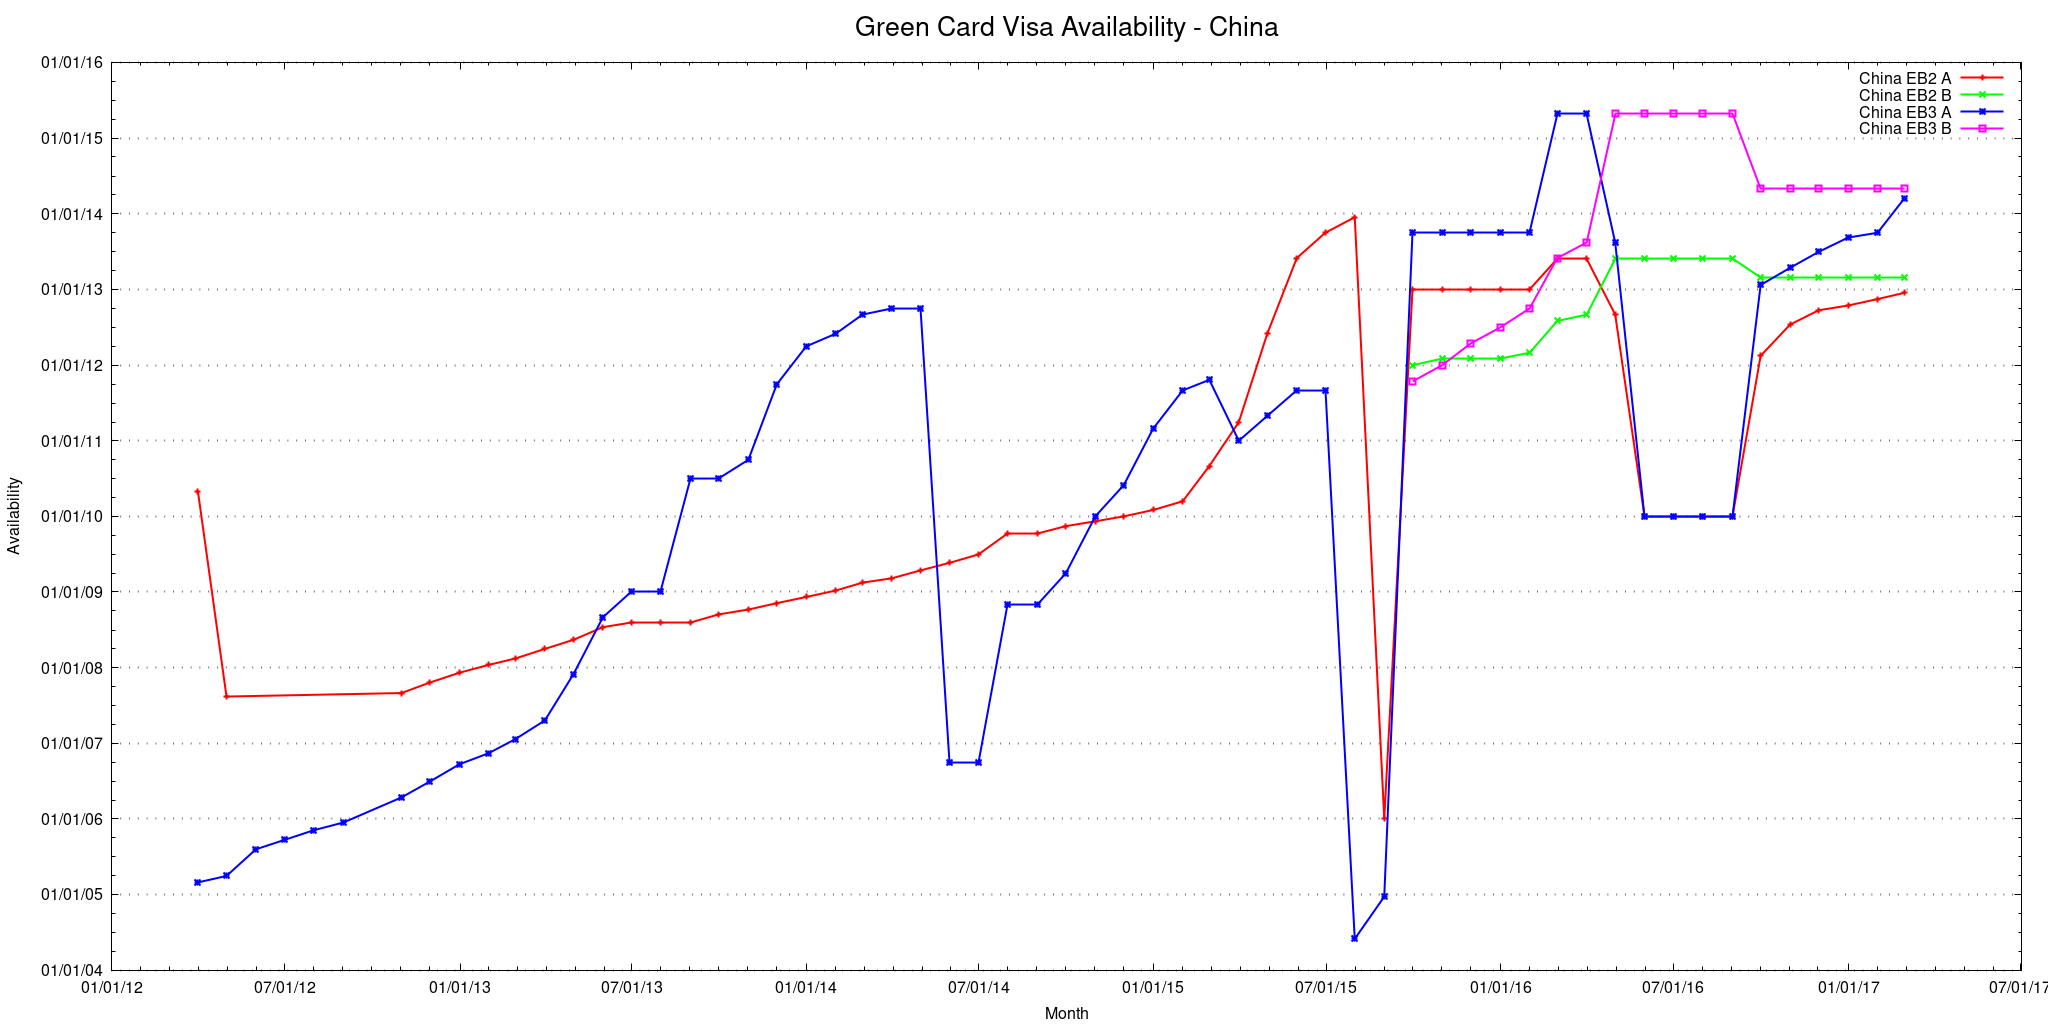
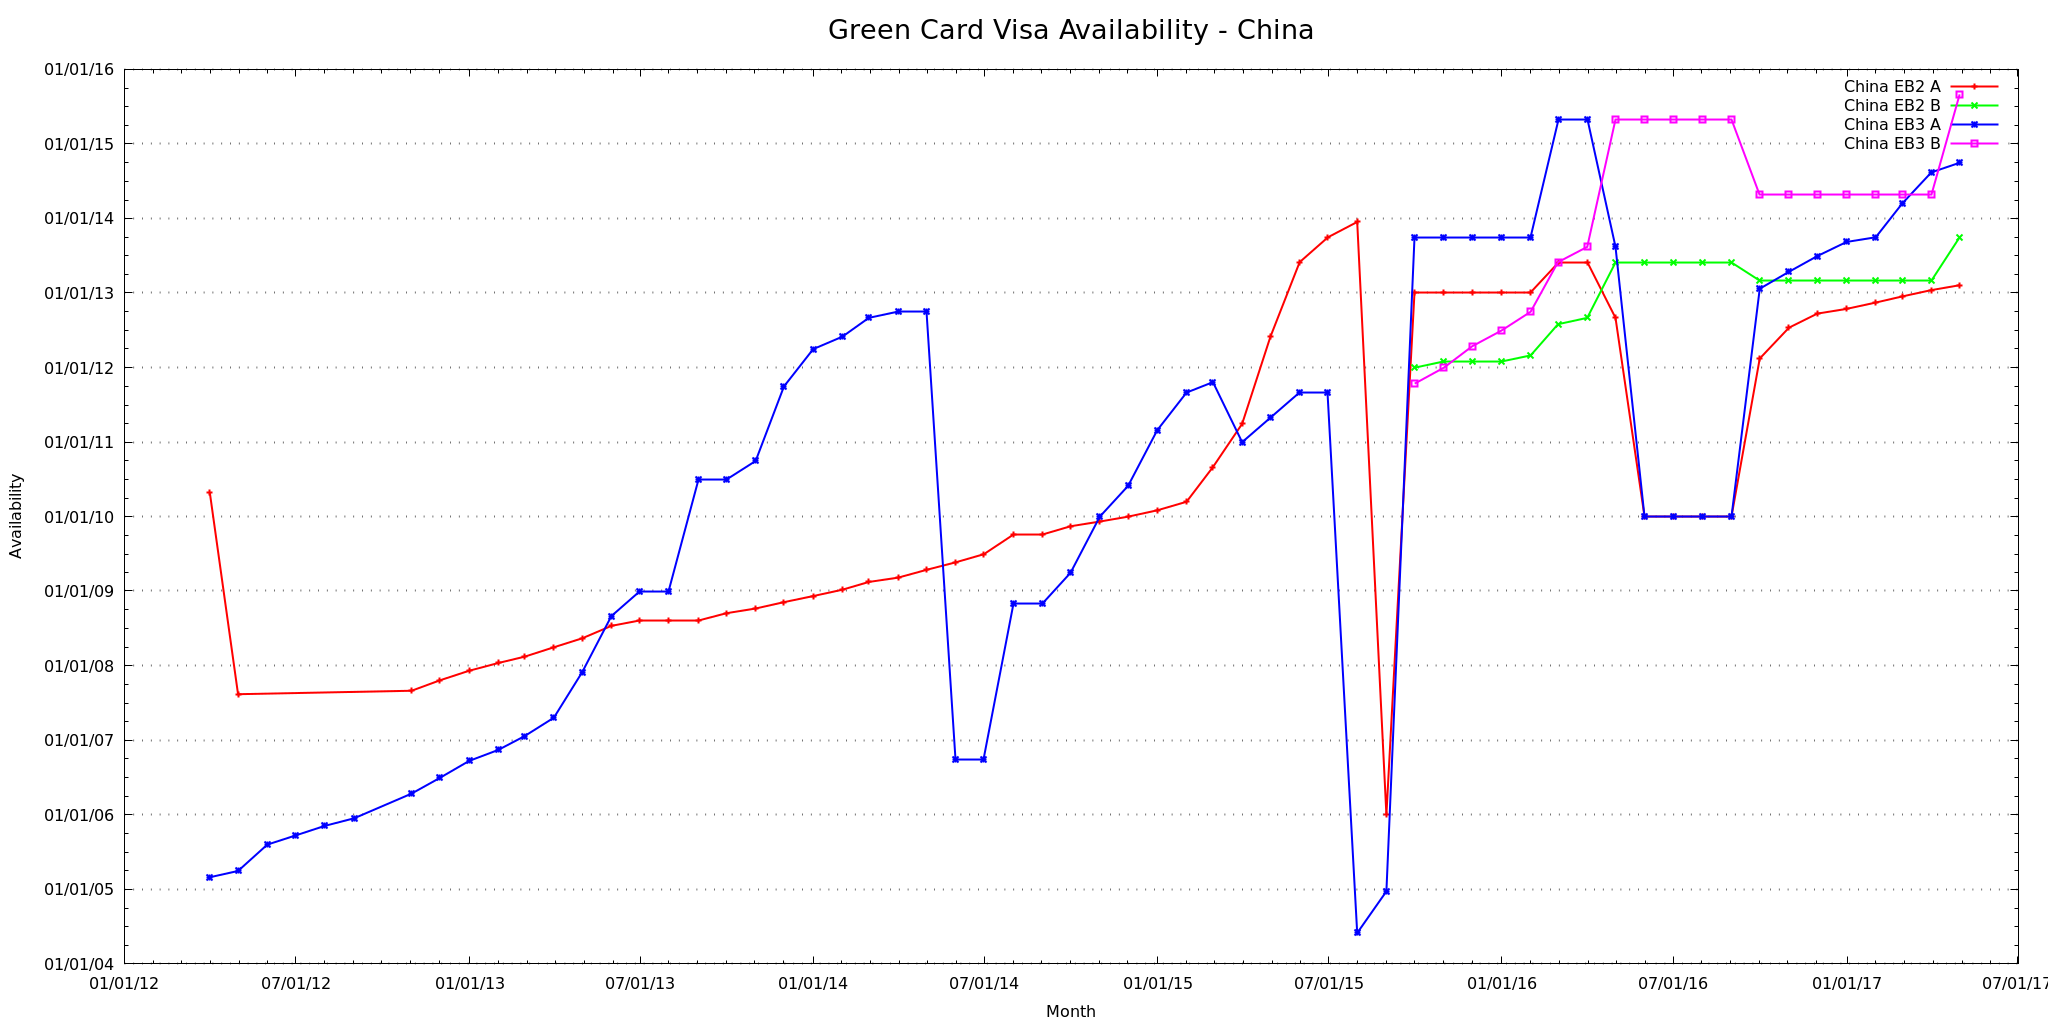
2017 May.

diff --git a/plotting/google-charts/charts.html b/plotting/google-charts/charts.html
@@ -78,6 +78,7 @@ data.addColumn('date', 'EB3 B');
 [new Date(2017, 01, 01), new Date(2012, 10, 15), new Date(2013, 02, 01), new Date(2013, 09, 01), new Date(2014, 04, 01), ],
 [new Date(2017, 02, 01), new Date(2012, 11, 15), new Date(2013, 02, 01), new Date(2014, 02, 15), new Date(2014, 04, 01), ],
 [new Date(2017, 03, 01), new Date(2013, 00, 15), new Date(2013, 02, 01), new Date(2014, 07, 15), new Date(2014, 04, 01), ],
+[new Date(2017, 04, 01), new Date(2013, 01, 08), new Date(2013, 09, 01), new Date(2014, 09, 01), new Date(2015, 08, 01), ],
 
   ]);
 
@@ -163,6 +164,7 @@ data.addColumn('date', 'EB3 B');
 [new Date(2017, 01, 01), new Date(2008, 03, 15), new Date(2009, 03, 22), new Date(2005, 02, 22), new Date(2005, 06, 01), ],
 [new Date(2017, 02, 01), new Date(2008, 05, 01), new Date(2009, 03, 22), new Date(2005, 02, 22), new Date(2005, 06, 01), ],
 [new Date(2017, 03, 01), new Date(2008, 05, 22), new Date(2009, 03, 22), new Date(2005, 02, 24), new Date(2005, 06, 01), ],
+[new Date(2017, 04, 01), new Date(2008, 05, 22), new Date(2009, 01, 01), new Date(2005, 02, 25), new Date(2006, 03, 22), ],
 
   ]);
 
@@ -248,6 +250,7 @@ data.addColumn('date', 'EB3 B');
 [new Date(2017, 01, 01), undefined, undefined, new Date(2016, 09, 01), undefined, ],
 [new Date(2017, 02, 01), undefined, undefined, new Date(2016, 11, 01), undefined, ],
 [new Date(2017, 03, 01), undefined, undefined, new Date(2017, 01, 15), undefined, ],
+[new Date(2017, 04, 01), undefined, undefined, new Date(2017, 02, 15), undefined, ],
 
   ]);
 
@@ -333,6 +336,7 @@ data.addColumn('date', 'EB3 B');
 [new Date(2017, 01, 01), undefined, undefined, new Date(2011, 09, 15), new Date(2013, 08, 01), ],
 [new Date(2017, 02, 01), undefined, undefined, new Date(2012, 02, 15), new Date(2013, 08, 01), ],
 [new Date(2017, 03, 01), undefined, undefined, new Date(2012, 08, 15), new Date(2013, 08, 01), ],
+[new Date(2017, 04, 01), undefined, undefined, new Date(2013, 00, 01), new Date(2014, 06, 01), ],
 
   ]);
 
